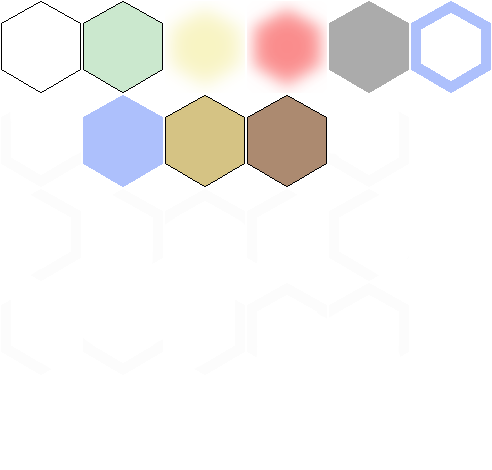
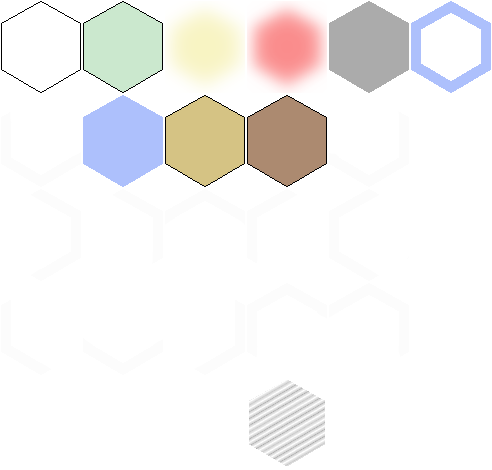
fix: use a different hex display for enemy reachable cells

Changed region(s): [[0.4878, 0.8043, 0.6707, 1.0]]

diff --git a/src/app.ts b/src/app.ts
@@ -1081,7 +1081,7 @@ export class HexesApp {
             continue;
           }
 
-          let spriteSrc = 'hex_action_disabled_gray.png';
+          let spriteSrc = 'hex_gray';
           if (this.battle.pathfinding_tiles[i][j] === 500) {
             spriteSrc = 'hex_action_red.png';
           }
@@ -1106,7 +1106,7 @@ export class HexesApp {
             continue;
           }
 
-          let spriteSrc = 'hex_action_disabled_gray.png';
+          let spriteSrc = 'hex_gray';
           if (this.battle.rangereach_targets[i][j] === 500) {
             spriteSrc = 'hex_action_red.png';
           }
@@ -1154,7 +1154,7 @@ export class HexesApp {
             continue;
           }
 
-          let spriteSrc = 'hex_action_disabled_gray.png';
+          let spriteSrc = 'hex_gray';
           if (this.battle.ability_reach_targets[i][j] === 500) {
             spriteSrc = 'hex_action_red.png';
           }
@@ -1204,7 +1204,7 @@ export class HexesApp {
             continue;
           }
 
-          let spriteSrc = 'hex_action_disabled_gray.png';
+          let spriteSrc = 'hex_enemy_movement.png';
           if (this.battle.enemy_potential_tiles[i][j] === 500) {
             spriteSrc = 'hex_action_blue.png';
           }
@@ -1245,7 +1245,7 @@ export class HexesApp {
     if (mapUpdate.hoverOverCell) {
       if (!this.hexHoverSprite) {
         this.hexHoverSprite = new Sprite(this.hexagonSheet?.textures['hex_usable_yellow.png']);
-        // this.hexHoverSprite = new Sprite(this.hexagonSheet?.textures['hex_action_disabled_gray.png']);
+        // this.hexHoverSprite = new Sprite(this.hexagonSheet?.textures['hex_gray']);
         this.hexCellsContainer.addChild(this.hexHoverSprite);
       }
 
